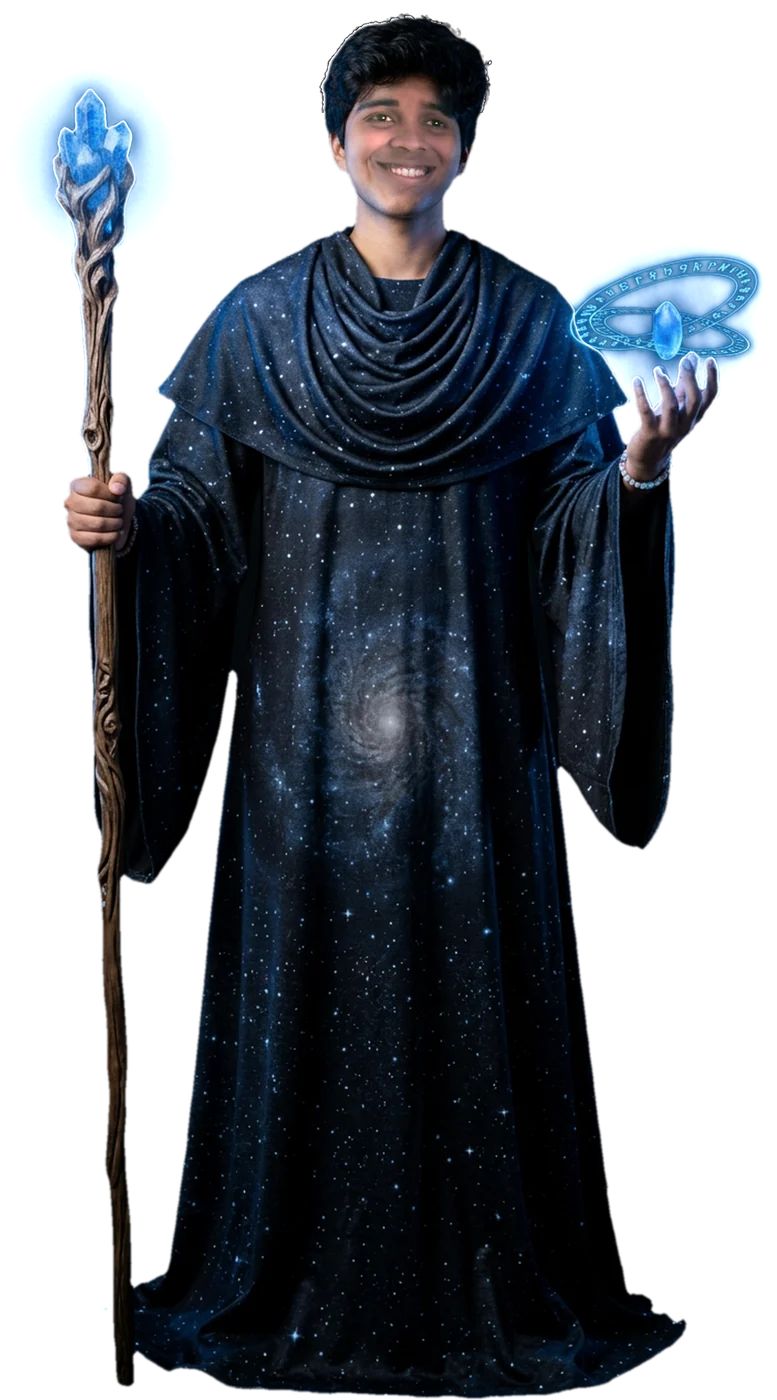
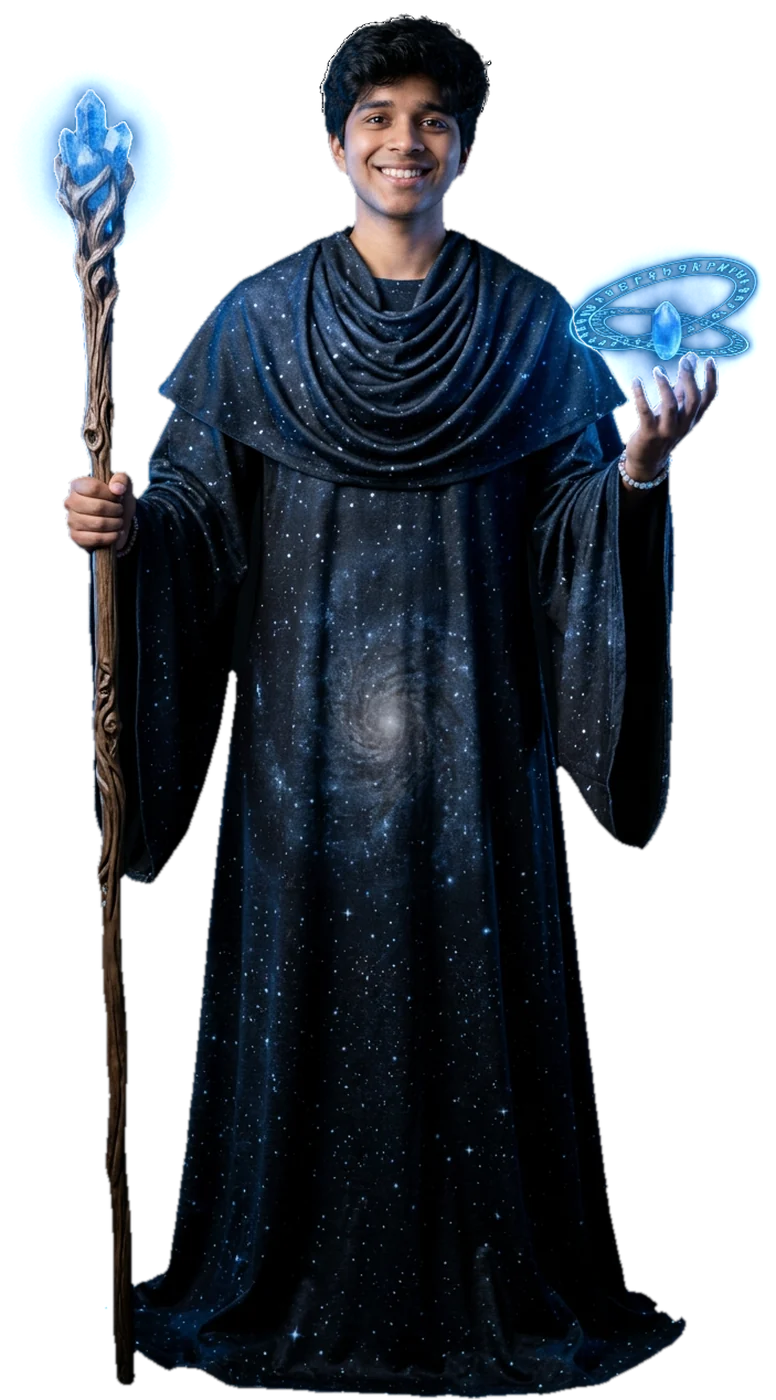
Welcome figure keeps its own face (the pasted photo face read as pasted)

diff --git a/src/data/content.js b/src/data/content.js
@@ -85,7 +85,7 @@ export const welcome = {
   figure: {
     src: '/holo/wizard-1.webp',
     phone: '/holo/wizard-1-phone.webp',
-    width: 777,
+    width: 776,
     height: 1400,
     /* Where his face is in the picture (its centre across and down, and its reach,
        all as shares of the picture's height and width: x of the width, y and r of
